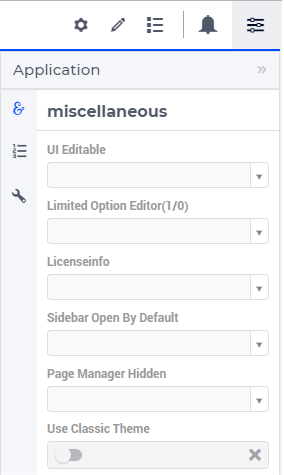
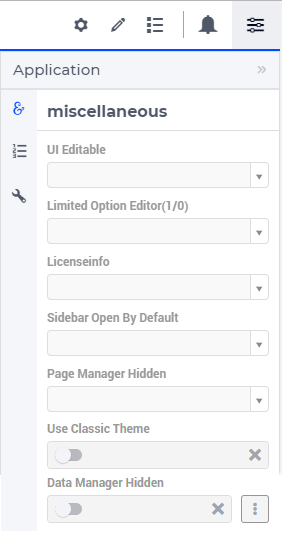
Added Data Manager Hidden content

diff --git a/webui/application-settings.rst b/webui/application-settings.rst
@@ -269,3 +269,8 @@ Page Manager Hidden
 +++++++++++++++++++
 
 This is a logical condition which determines whether or not the Page Manager button on the menu bar is visible or is hidden.
+
+Data Manager Hidden
++++++++++++++++++++
+
+This is a logical condition which determines whether or not the Data Manager button on the menu bar is visible or is hidden.
